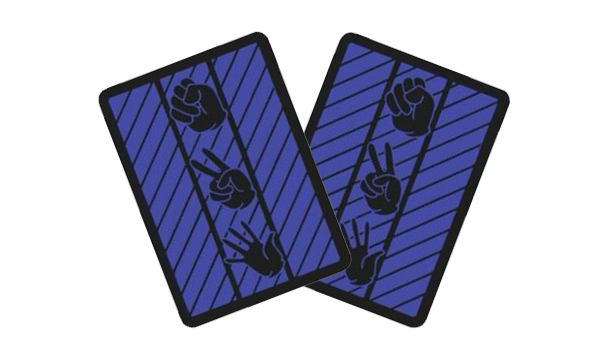
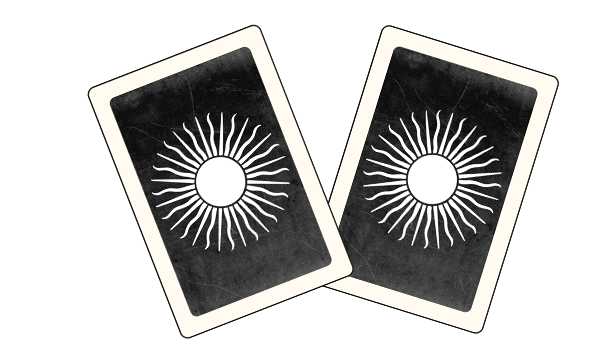
cambio de imagenes y correcion de errores
cambio de imagenes del maso y errores del js del piedra papel o tijera

diff --git a/js/piedra-papel.js b/js/piedra-papel.js
@@ -85,16 +85,16 @@ function resolverRonda(i) {
 		resultado = "Empate: los dos jugaron " + cartaA;
 	} else if (cartaA === "piedra" && cartaB === "tijera") {
 		contadorJugadorUno++;
-		resultado = "Gano la ronda"+ pleyerUno +" : piedra rompe tijera";
+		resultado = "Gano la ronda "+ pleyerUno +" : piedra rompe tijera";
 	} else if (cartaA === "papel" && cartaB === "piedra") {
 		contadorJugadorUno++;
-		resultado = "Gano la ronda"+ pleyerUno +": papel envuelve piedra";
+		resultado = "Gano la ronda "+ pleyerUno +": papel envuelve piedra";
 	} else if (cartaA === "tijera" && cartaB === "papel") {
 		contadorJugadorUno++;
-		resultado = "Gano la ronda"+ pleyerUno +" : tijera corta papel";
+		resultado = "Gano la ronda "+ pleyerUno +" : tijera corta papel";
 	} else {
 		contadorJugadorDos++;
-		resultado = "Gano la ronda"+ pleyerDos + " : " + cartaB + " le gana a " + cartaA ;
+		resultado = "Gano la ronda "+ pleyerDos + " : " + cartaB + " le gana a " + cartaA ;
 	}
  
 	console.log(resultado);
@@ -104,12 +104,14 @@ function resolverRonda(i) {
     puntajeDos.innerText = contadorJugadorUno + " vs " + contadorJugadorDos;
 
       if (contadorJugadorUno === 3) {
+		sessionStorage.setItem(pleyerUno, 10);
 		ganador.innerText = pleyerUno +" Gano la partida" ;
 		pantallaGanaste.style.display = "block";
 		tablero.style.display = "none";
 		tableroDos.style.display = "none";
 
 	} else if (contadorJugadorDos === 3) {
+		sessionStorage.setItem(pleyerDos, 10);
 		ganador.innerText = pleyerDos +" Gano la partida"
 		pantallaGanaste.style.display = "block";
 	    tablero.style.display = "none";
@@ -140,7 +142,7 @@ bntTijeraDos.addEventListener("click",function(){
 });
 
 bntInicio.addEventListener("click",function(){
-   	play.style.display = "block";
+   	play.style.display = ""; // recomendacion de la ia para que tome lo del ccs que no lo tomaba 
 	tableroDos.style.display = "none";
 	reglas.style.display = "none";
 	tablero.style.display = "none";

diff --git a/juego-1.html b/juego-1.html
@@ -35,14 +35,14 @@
 						<p><strong>¿Cómo es el Turno?</strong></p>
 							<p>La partida es de 2 jugadores y consta de 3 rondas.</p>
 						<ul>	
-							<li><strong>Jugador A:</strong> Elige una carta de tu mano y haz clic en ella para jugarla</li>
-							<li><strong>Jugador B:</strong> Elige una carta y juega la suya.</li>
-							<li><strong>Resultado:</strong> Se revelan las dos cartas jugadas.</li>
+							<li><strong>Jugador A:</strong> Elige una carta de la mano y haz clic en ella para jugarla</li>
+							<li><strong>Jugador B:</strong> Elige una carta , hace clicl y juega la suya.</li>
+							<li><strong>Resultado:</strong> Se revelan las dos cartas jugadas y segun corresponda se determina el ganador.</li>
 						</ul>
 						<p><strong>🏆Puntos y Victoria</strong></p>
 							<p>El jugador que gana una ronda suma 1 victoria.</p>
 							<p>Si las cartas son iguales, ninguno suma punto.</p>
-							<p>Al finalizar las 3 rondas, el jugador que haya ganado las 3 rondas obtiene <strong>10 puntos</strong>.</p>
+							<p>Al finalizar quien  gane las 3 rondas gana la partida y obtiene <strong>10 puntos</strong>para el Ranking.</p>
 						<button type="button" id="btcSig">Siguiente</button>
 			    </div>
 				<div id="tableroUno">
@@ -70,7 +70,7 @@
 				<div id="ganaste">
 					<img src="img/ganaste.png" alt="cartel de ganaste">
 					<H2 id="ganador"></H2>
-					<p>Obtuviste 10 puntos para el podium</p>
+					<p>Obtuviste 10 puntos para el Ranking</p>
 					<button type="button" id="inicio" >Inicio</button>
 				</div>
          </div>

diff --git a/css/piedra-papel.css b/css/piedra-papel.css
@@ -48,16 +48,16 @@ button {
     background-color: #018164;
     margin-left: 4rem;
     margin-right: 4rem;
-    display: flex;
+      display: flex;
+    flex-direction: column;
     justify-content: center;
-align-items: center;
-flex-direction: column;
-
+    align-items: center;
 }
 #play img {
     width: 30%;
-    margin-bottom: 4rem;
 }
+
+
 
 /*/////////////////////////// Pantalla reglas //////////////////////////////// */
 
